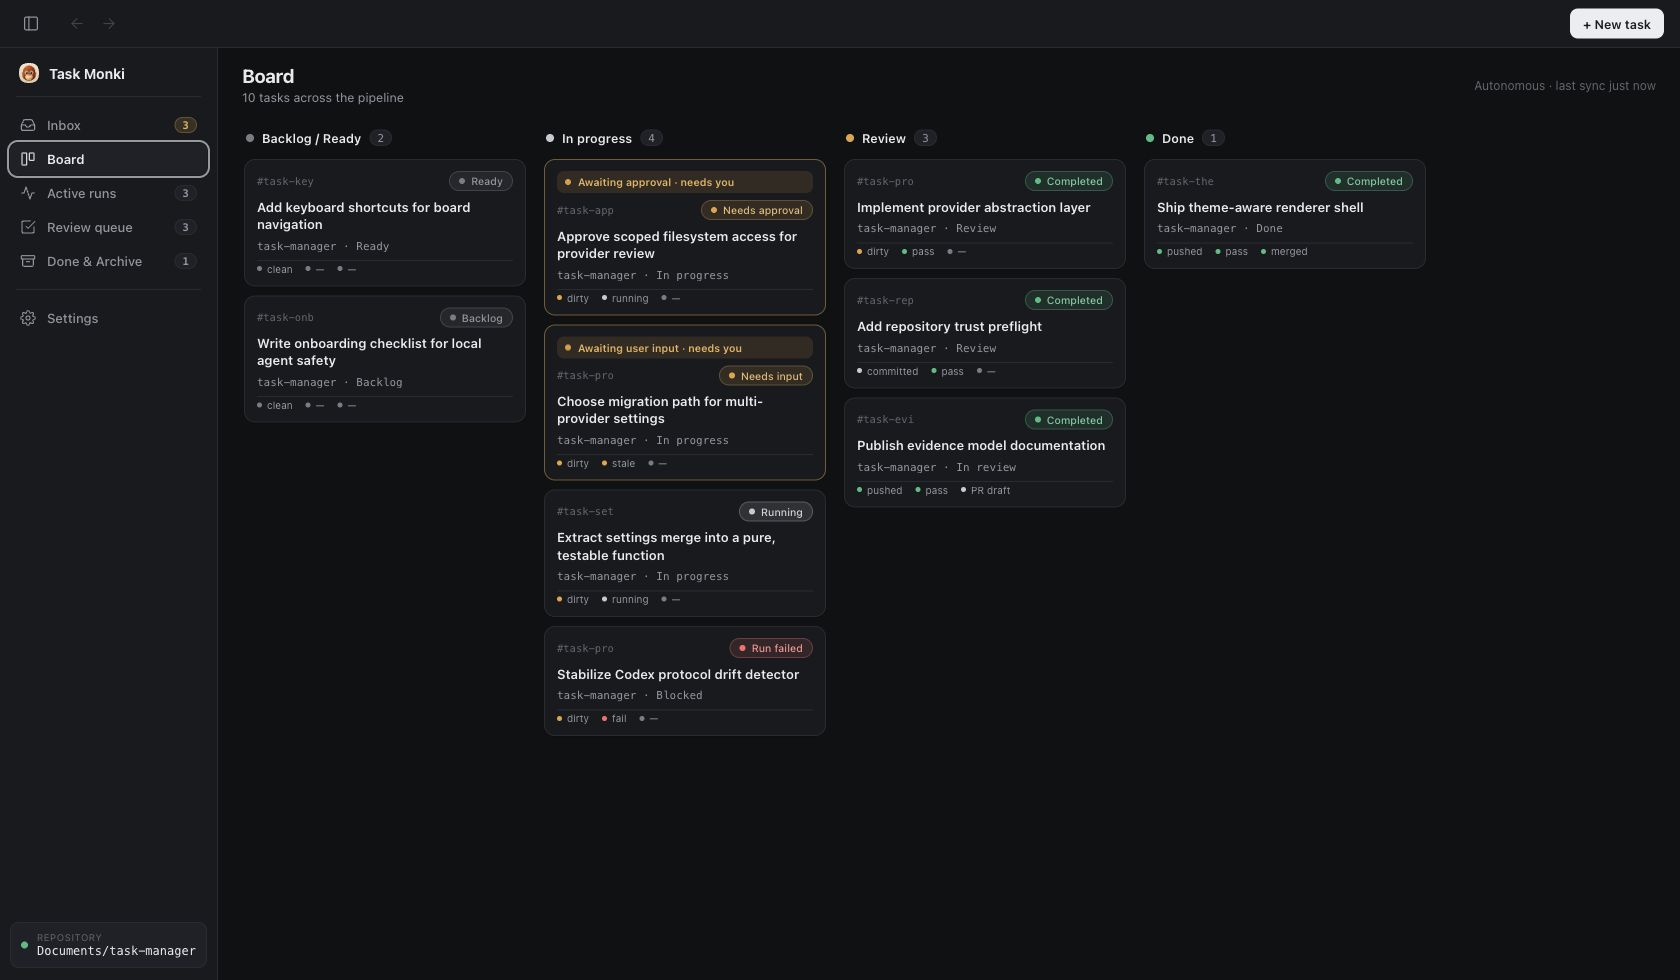
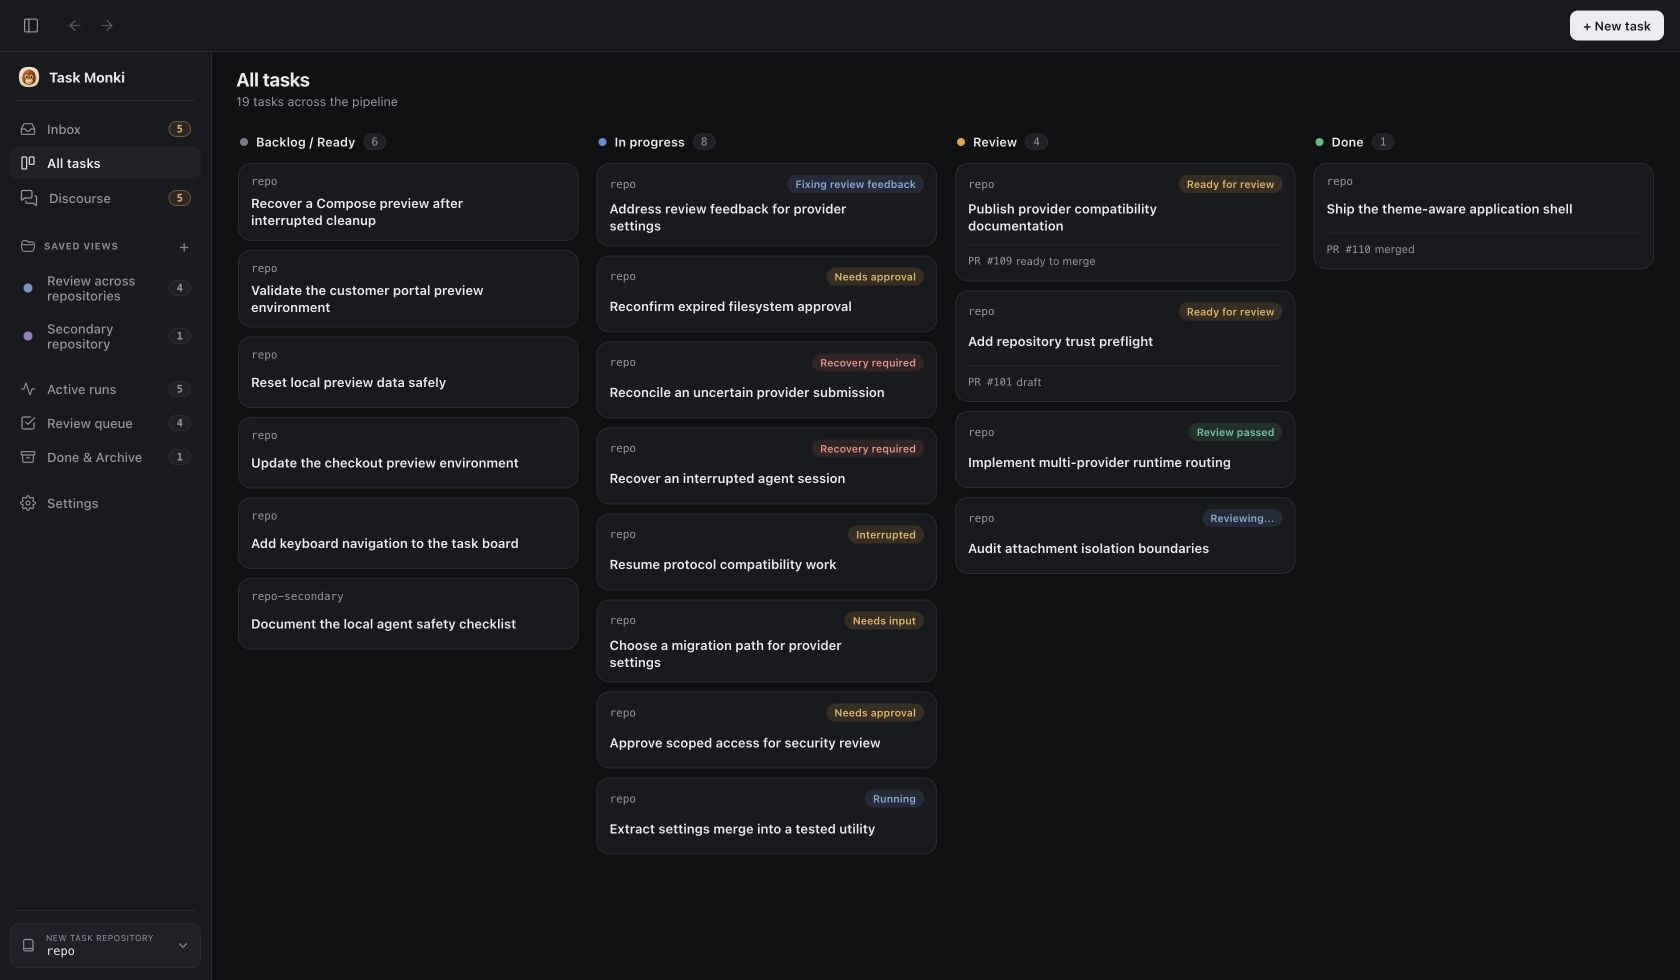
Refresh README and dashboard assets

diff --git a/README.md b/README.md
@@ -4,115 +4,164 @@
 
 <h1 align="center">Task Monki</h1>
 
-<p align="center">
-  A local task board for running AI coding agents in isolated Git worktrees.
-</p>
-
 ![Task Monki dashboard](./.github/assets/task-monki-dashboard-dark.jpg)
 
-> [!WARNING]
-> Task Monki is experimental. It runs local commands and can create commits, push branches, and open draft pull requests. Point it only at repositories you can recover, and review every change before you ship it.
+<p align="center">
+  <a href="https://youtu.be/guk2EJC5Jzw">
+    <img
+      src="./.github/assets/watch-demo.svg"
+      alt="Watch the Task Monki demo"
+      width="230"
+    />
+  </a>
+</p>
+
+
+## Why Task Monki
+
+Task Monki started during the Codex Community Build and continued to grow during Codex Build Week Vienna.
+
+The idea came from a problem I kept running into while working with coding agents. The agents could implement tasks quickly, but managing several of them at the same time was still very manual. I had to open each worktree separately, run the right commands, start local services and containers, check the result, review the changes, and follow the pull request status across different tools.
+
+I wanted one place where agents could work on multiple tasks in parallel while I could see what each one was doing, preview every result separately, request a review, send issues back for correction, and follow the task all the way to the pull request.
 
 ## What it is
 
-You write a task prompt, Task Monki gives it an isolated branch and Git
-worktree, and the selected coding-agent runtime implements inside it. You watch
-the work happen, inspect the diff, review local Git evidence, and open a draft
-pull request when it is ready—all from one board on your machine.
+You create a task with a plain-language prompt, refine it based on the request and repository, and choose the runtime, model, and permission mode you want to use.
 
-Task Monki keeps its task records, worktrees, attachments, and evidence store
-on your machine. Agent work is delegated to an installed, authenticated runtime.
-Codex App Server and OpenCode use their native protocols; supported ACP agents
-use the stable Agent Client Protocol. Task Monki observes Git and GitHub
-delivery evidence independently. It never merges a pull request for you.
+Each task gets its own Git branch and worktree, so several agents can work on the same repository in parallel without affecting one another or the main checkout. Task Monki keeps these tasks together in one Kanban-style workspace, where you can follow plans, progress, tool activity, logs, and file changes.
 
-Each supported agent has a first-class durable runtime identity with its own
-models, permissions, and capability record. Codex and OpenCode are native
-server integrations; Grok, Cursor, and the Claude bridge use registered ACP compatibility
-integrations with explicitly documented limits.
-Task Monki does not force any of them through a generic model-SDK loop. See the
-current
-[provider runtime compatibility matrix](docs/architecture/PROVIDER_RUNTIME_COMPATIBILITY.md).
+When the implementation is ready, you can run the worktree as its own local preview, request an independent agent review, send findings back for correction, inspect the Git diff and collected evidence, and open a draft pull request without leaving the app.
 
-A key principle: Task Monki keeps what an **agent reports** separate from what
-it has **verified locally**. Runtime plans, usage, and completion claims are
-always marked as such—only Task Monki's own Git inspection and GitHub sync count
-as verified delivery evidence.
+Task records, worktrees, and evidence stay on your machine. Agent work is delegated to an installed and authenticated runtime. Codex App Server and OpenCode use their native protocols, while supported ACP agents connect through the Agent Client Protocol.
 
-## How it works
+Task Monki keeps what an agent reports separate from what it verifies locally. Agent plans and completion messages are shown as runtime output, while Git inspection and GitHub synchronization provide the delivery evidence.
 
-1. **Create a task** — pick a repository, runtime, model, and prompt, with optional supported attachments.
-2. **Prepare the worktree** — creates an isolated `task-monki/task-*` branch.
-3. **Start implementation** — the selected agent runs against that worktree.
-4. **Inspect** — review the diff, commands, file changes, and approvals.
-5. **Review** — run an agent review, optionally with another runtime, or request follow-up changes.
-6. **Commit** — create a delivery commit when the local diff is ready.
-7. **Ship** — open a draft pull request once the branch and GitHub evidence are ready.
+## Workflow
 
-When the selected runtime supports it, you can steer or interrupt a run
-mid-turn, follow up in the same session, retry, or fork an alternative attempt.
+1. **Create a task** — select a repository, write the request, and choose the runtime, model, and permissions.
+2. **Prepare the worktree** — Task Monki creates an isolated branch and Git worktree for the task.
+3. **Run the agent** — follow the plan, tool activity, approvals, logs, and file changes while the agent works.
+4. **Inspect and test** — review the Git diff, test results, and collected logs.
+5. **Request a review** — ask another agent to inspect the implementation and report any problems.
+6. **Send back fixes** — return review findings, failed tests, or failed checks to the original agent without creating a new task.
+7. **Preview the result** — launch the worktree in its own local environment and test the actual application.
+8. **Deliver the change** — commit the result, publish the branch, open a draft pull request, and monitor the workflow checks.
 
-### Attachments
+## Local previews
 
-New tasks can include PNG, JPEG, or still WebP images and allowlisted UTF-8
-text, data, configuration, and source-code files. Task Monki stores private
-task-owned copies outside the repository worktree and reuses them for retries,
-follow-ups, recovery, and review. Attachment runs require runtime-supported
-restricted execution and disable network access. Codex additionally disables
-web search, MCP servers, and apps for these turns. PDFs,
-Office files, media, archives, databases, and arbitrary binaries are not
-accepted. See the [attachment lifecycle](docs/architecture/ATTACHMENT_LIFECYCLE.md)
-for storage, delivery, cleanup, and privacy behavior.
+Each worktree can run as its own local preview. Task Monki can generate a reviewable `.taskmonki/preview.yaml`, prepare dependencies and services, and launch each implementation in a separate environment.
+
+This lets you test several tasks at the same time without manually opening terminals, assigning ports, or setting up containers for every worktree.
+
+See the [Preview Guide](docs/PREVIEW_GUIDE.md) for setup, examples, and troubleshooting.
+
+## Discourse
+
+Discourse lets you ask questions with repository context in three different ways.
+
+- **Direct** works like a standard agent chat.
+- **Panel** asks several agents to answer independently, so you can compare different approaches.
+- **Team** starts with an answer from a Lead, while Skeptic and Verifier agents challenge its assumptions and evidence. The Lead can then revise or defend the answer.
+
+The original answer, criticism, and correction remain visible in the same conversation.
+
+See the [Discourse workflow](docs/workflows/GENERAL_AGENT_DISCOURSE_LIFECYCLE.md) for more details.
+
+## Supported providers
+
+Task Monki currently supports Codex(Recommended provider), OpenCode, Cursor, Grok, and the Claude ACP bridge(Experimental).
+
+## Built with Codex
+
+Task Monki started during the Codex Community Build with GPT-5.5 and continued during Codex Build Week with GPT-5.6. I used the Codex app and separate Git worktrees to build and test larger features in parallel.
+
+With GPT-5.6, I added multi-provider support, Git and GitHub integration, local previews, agent reviews, follow-up fixes, Discourse, and a major UI refactor. I used GPT-5.6 Ultra for the multi-provider implementation because it affected a large part of the codebase. Browser Use, Computer Use, and Playwright were used to test complete workflows in the real application, including the demo recording.
 
 ## Install
 
-Download the latest desktop build from [GitHub Releases](https://github.com/RojhatToptamus/task-monki/releases/latest) and pick the asset for your platform (macOS, Windows, or Linux).
+Download the latest desktop build from [GitHub Releases](https://github.com/RojhatToptamus/task-monki/releases).
 
-Builds are currently unsigned, so macOS and Windows may show a security warning on first launch. There's no auto-updater yet — to update, download and install the newer release.
+Task Monki is primarily developed and tested on macOS. Experimental builds are also available for Windows and Linux, but they have not yet been tested as extensively.
 
-**Prerequisites** (Task Monki does not bundle agent runtimes):
+Task Monki runs locally and requires Git and at least one installed and authenticated agent runtime, such as Codex CLI. GitHub CLI is only needed for branch publishing, pull requests, and GitHub checks. Docker is only needed for previews that use managed services or Docker Compose.
 
-- Git
-- At least one supported runtime installed and authenticated:
-  - [Codex CLI](https://github.com/openai/codex)
-  - [OpenCode](https://github.com/anomalyco/opencode)
-  - an available ACP agent profile such as Grok Build, Cursor Agent, or
-    `claude-agent-acp`
-- Optional — [GitHub CLI](https://cli.github.com/), authenticated, for branch and pull-request features (`gh auth login`)
+### macOS Guide
 
-Packaged apps probe supported runtimes and their capabilities instead of
-assuming that a command name implies compatibility. Git, GitHub CLI, and every
-registered agent-runtime path can be configured in Settings; environment
-overrides are documented in the architecture and install guides.
+Task Monki is currently an unsigned alpha release. It is ad-hoc signed for bundle integrity, but it is not yet signed with an Apple Developer ID or notarized. macOS may block it on the first launch.
+
+If this happens:
+
+1. Try opening Task Monki once.
+2. Open **System Settings → Privacy & Security**.
+3. Scroll down to the **Security** section.
+4. Click **Open Anyway** next to Task Monki.
+5. Confirm with your password or Touch ID.
+
+If **Open Anyway** does not appear, or the app starts without showing a window, quit Task Monki and run:
+
+```sh
+xattr -dr com.apple.quarantine "/Applications/Task Monki.app"
+open "/Applications/Task Monki.app"
+```
+
+If Task Monki is installed somewhere else, update the path accordingly.
 
 ## Run from source
 
-Install a release unless you're developing Task Monki itself. Source builds need Node.js 20+ and npm.
+Source builds require Node.js 20 or newer, npm, Git, and at least one installed and authenticated agent runtime for live tasks.
+
+Clone the repository, install the dependencies, and start the desktop app:
 
 ```bash
+git clone https://github.com/RojhatToptamus/task-monki.git
+cd task-monki
 npm install
-```
-
-**Desktop app:**
-
-```bash
 npm start
 ```
 
-**Browser** (two terminals):
+This builds and opens the Electron desktop application.
+
+GitHub CLI is optional. To use branch publishing, pull requests, and GitHub checks, install it and authenticate with:
 
 ```bash
-npm run dev:api        # local API on http://127.0.0.1:3099
-npm run dev:renderer   # renderer on http://127.0.0.1:5173
+gh auth login
 ```
 
-Then open [http://127.0.0.1:5173](http://127.0.0.1:5173).
-The renderer reaches the API through Vite's same-origin `/api` proxy. Start the
-API before making requests; it rotates a private proxy token on each launch.
-The token stays outside renderer JavaScript and direct browser access to port
-3099 is rejected.
+## Inspect the seeded UI
 
-**Checks:**
+For a quick look at the interface without running live agents, Task Monki includes deterministic seed data with disposable repositories and synthetic tasks covering different workflow states.
+
+Generate the seed:
+
+```sh
+npm run dev:seed
+```
+
+Start the API in the first terminal:
+
+```sh
+source .local/task-monki-dev-seed/dev-api.env
+npm run dev:api
+```
+
+Start the renderer in a second terminal:
+
+```sh
+npm run dev:renderer
+```
+
+Then open:
+
+```text
+http://127.0.0.1:5173
+```
+
+The seed resets only `.local/task-monki-dev-seed` and disables live agent execution.
+
+See the [Development Seed Data guide](docs/DEV_SEEDING.md) for more details.
+
+## Checks
 
 ```bash
 npm run typecheck && npm test && npm run build && npm run check:codex-protocol